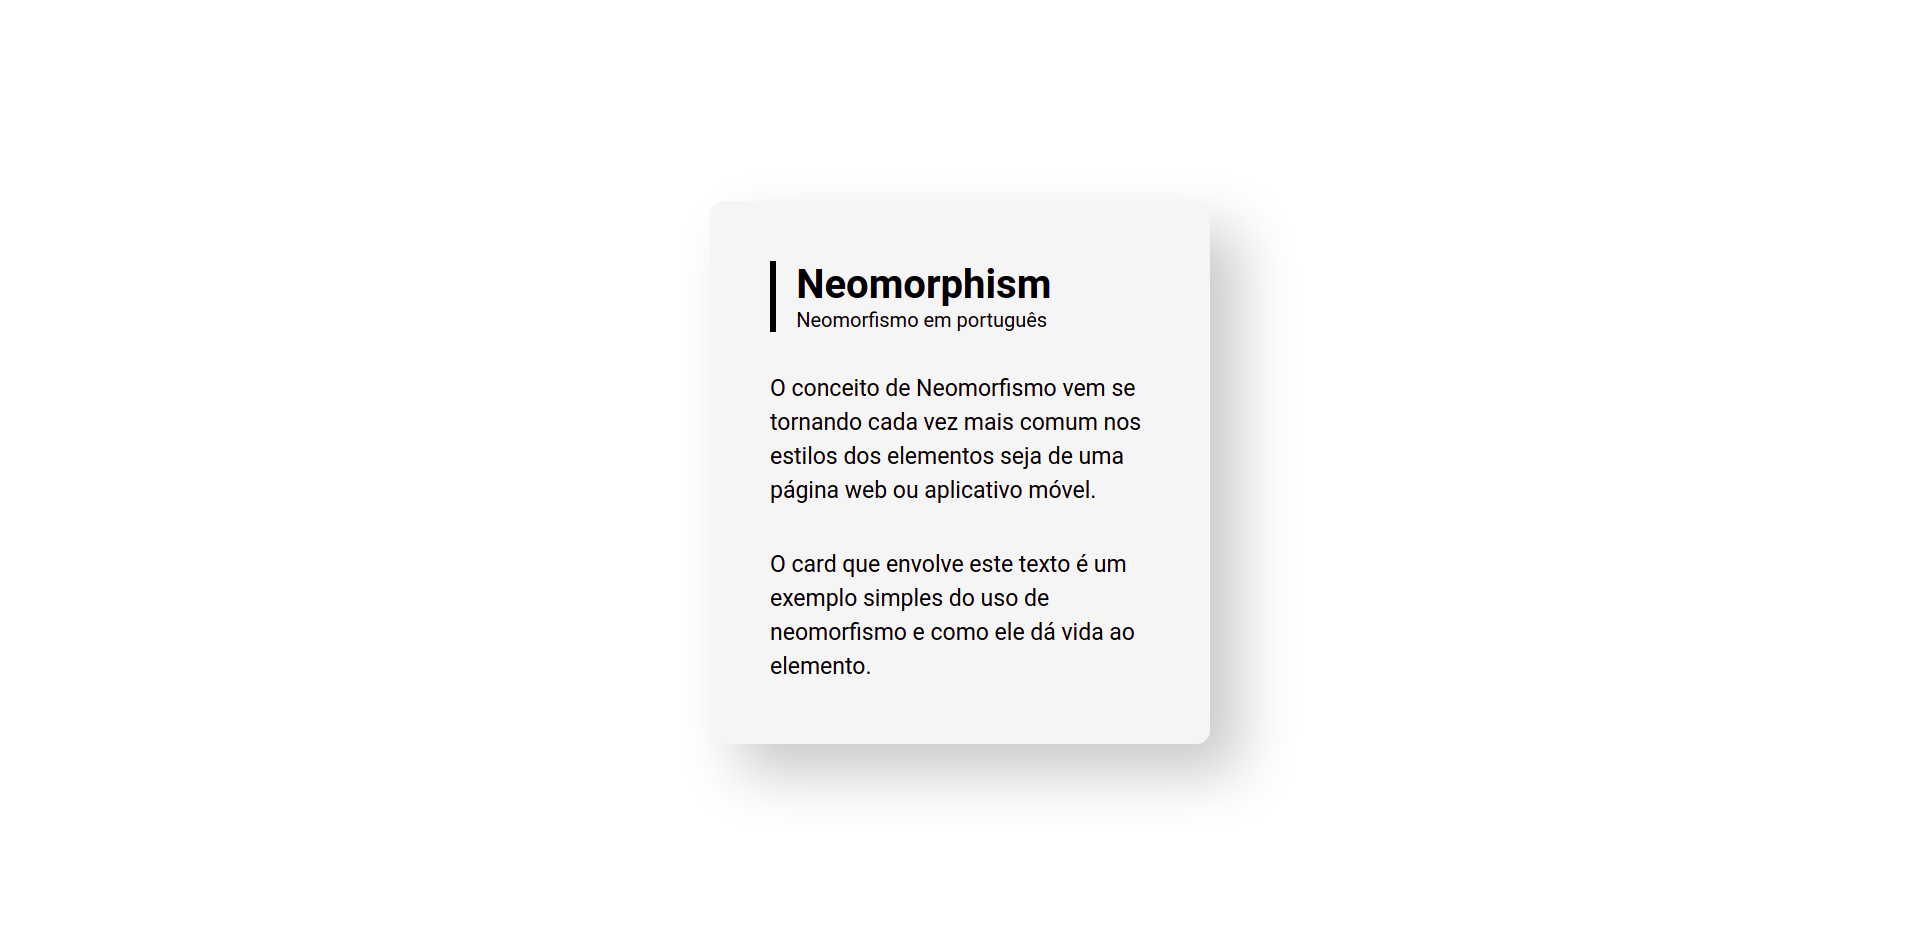
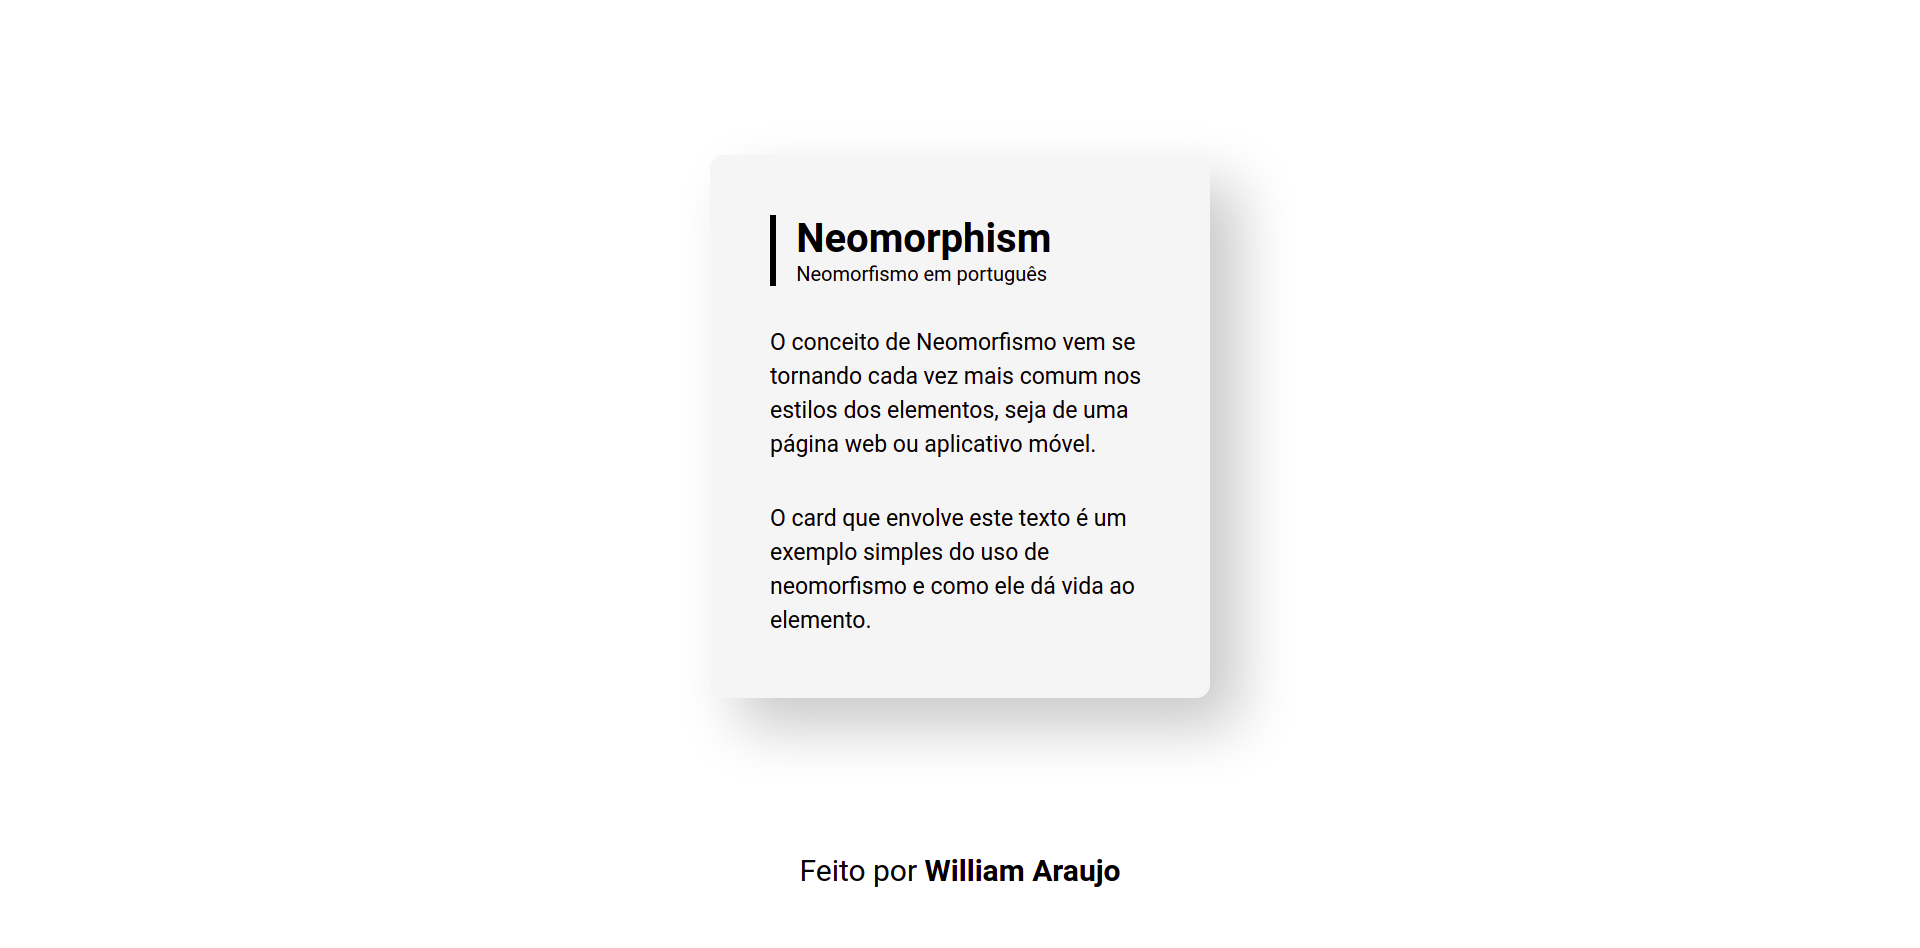
Adiciona footer com o meu nome

Changed region(s): [[0.375, 0.2144, 0.6562, 0.8268], [0.4062, 0.8881, 0.5938, 0.9493]]

diff --git a/index.html b/index.html
@@ -19,7 +19,7 @@
         <span class="card__subtitle">Neomorfismo em português</span>
       </div>
       <span class="card__text animate-text">
-        O conceito de Neomorfismo vem se tornando cada vez mais comum nos estilos dos elementos seja de uma página web
+        O conceito de Neomorfismo vem se tornando cada vez mais comum nos estilos dos elementos, seja de uma página web
         ou aplicativo móvel.
       </span>
       <span class="card__text animate-text">
@@ -27,6 +27,9 @@
       </span>
     </div>
   </div>
+  <footer>
+    <span class="footer-text">Feito por <strong>William Araujo</strong></span>
+  </footer>
 </body>
 
 </html>

diff --git a/styles/styles.css b/styles/styles.css
@@ -11,6 +11,7 @@
 html {
   min-height: 100%;
 	font-size: 16px;
+  overflow: hidden;
 }
 
 *,
@@ -25,7 +26,7 @@ input {
   display: flex;
   justify-content: center;
   align-items: center;
-  height: 100vh;
+  height: 90vh;
 }
 
 .card {
@@ -60,6 +61,15 @@ input {
   display: block;
   /* text-indent: 2rem; */
   margin-top: 2rem;
+}
+
+footer {
+  height: 10vh;
+  text-align: center;
+}
+
+.footer-text {
+  font-size: 1.5rem;
 }
 
 @media (max-width: 530px) {
